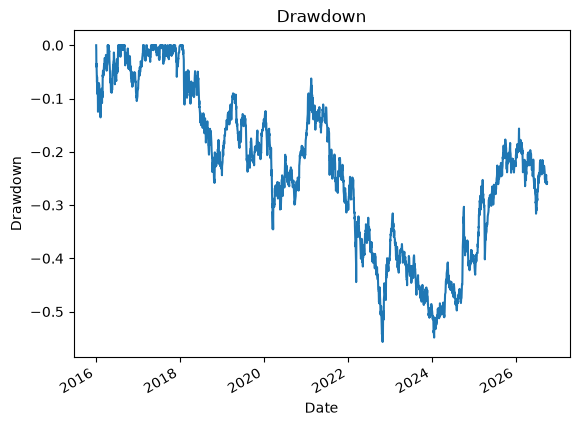
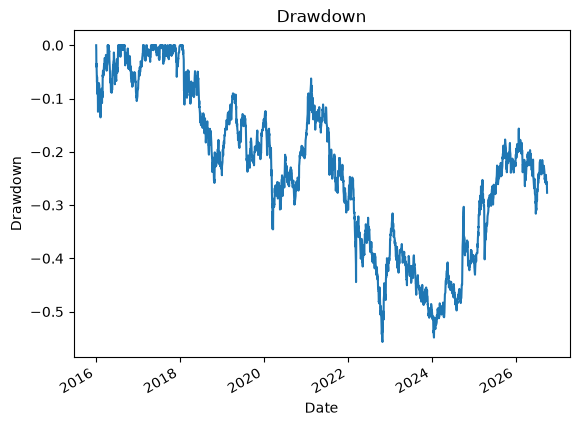
Daily automated notebook update: 2026-10-03

diff --git a/README.md b/README.md
@@ -33,12 +33,12 @@ df, returns
      2016-01-07    20333.339844
      2016-01-08    20453.710938
                        ...     
-     2026-09-24    24761.130859
      2026-09-25    24510.089844
      2026-09-28    24642.509766
      2026-09-29    24523.570312
      2026-09-30    24613.269531
-     Name: ^HSI, Length: 2643, dtype: float64,
+     2026-10-02    23972.289062
+     Name: ^HSI, Length: 2644, dtype: float64,
      Date
      2016-01-05   -0.006489
      2016-01-06   -0.009812
@@ -46,12 +46,12 @@ df, returns
      2016-01-08    0.005920
      2016-01-11   -0.027634
                      ...   
-     2026-09-24   -0.002939
      2026-09-25   -0.010139
      2026-09-28    0.005403
      2026-09-29   -0.004827
      2026-09-30    0.003658
-     Name: ^HSI, Length: 2642, dtype: float64)
+     2026-10-02   -0.026042
+     Name: ^HSI, Length: 2643, dtype: float64)
 
 
 
@@ -100,11 +100,11 @@ summary
   <tbody>
     <tr>
       <th>0</th>
-      <td>0.000149</td>
-      <td>0.013749</td>
+      <td>0.000139</td>
+      <td>0.013756</td>
       <td>-0.132233</td>
       <td>0.090818</td>
-      <td>2642</td>
+      <td>2643</td>
     </tr>
   </tbody>
 </table>
@@ -176,13 +176,13 @@ pd.DataFrame({
       <th>0</th>
       <td>Historical</td>
       <td>0.95</td>
-      <td>-0.020962</td>
+      <td>-0.021035</td>
     </tr>
     <tr>
       <th>1</th>
       <td>Historical</td>
       <td>0.99</td>
-      <td>-0.034019</td>
+      <td>-0.034017</td>
     </tr>
   </tbody>
 </table>
@@ -238,13 +238,13 @@ pd.DataFrame({
       <th>0</th>
       <td>Parametric (Normal)</td>
       <td>0.95</td>
-      <td>-0.022467</td>
+      <td>-0.022488</td>
     </tr>
     <tr>
       <th>1</th>
       <td>Parametric (Normal)</td>
       <td>0.99</td>
-      <td>-0.031837</td>
+      <td>-0.031863</td>
     </tr>
   </tbody>
 </table>
@@ -289,13 +289,13 @@ compare_var
   <tbody>
     <tr>
       <th>0</th>
-      <td>-0.020962</td>
-      <td>-0.022467</td>
+      <td>-0.021035</td>
+      <td>-0.022488</td>
     </tr>
     <tr>
       <th>1</th>
-      <td>-0.034019</td>
-      <td>-0.031837</td>
+      <td>-0.034017</td>
+      <td>-0.031863</td>
     </tr>
   </tbody>
 </table>
@@ -355,11 +355,11 @@ pd.DataFrame({
     <tr>
       <th>0</th>
       <td>Historical 95% (constant)</td>
-      <td>-0.020962</td>
-      <td>0.050341</td>
+      <td>-0.021035</td>
+      <td>0.050322</td>
       <td>0.05</td>
       <td>133</td>
-      <td>2642</td>
+      <td>2643</td>
     </tr>
   </tbody>
 </table>
@@ -417,11 +417,11 @@ pd.DataFrame({
     <tr>
       <th>0</th>
       <td>Historical 99% (constant)</td>
-      <td>-0.034019</td>
-      <td>0.01022</td>
+      <td>-0.034017</td>
+      <td>0.010216</td>
       <td>0.01</td>
       <td>27</td>
-      <td>2642</td>
+      <td>2643</td>
     </tr>
   </tbody>
 </table>
@@ -479,11 +479,11 @@ pd.DataFrame({
     <tr>
       <th>0</th>
       <td>Parametric 95% (constant)</td>
-      <td>-0.022467</td>
-      <td>0.03785</td>
+      <td>-0.022488</td>
+      <td>0.038214</td>
       <td>0.05</td>
-      <td>100</td>
-      <td>2642</td>
+      <td>101</td>
+      <td>2643</td>
     </tr>
   </tbody>
 </table>
@@ -541,11 +541,11 @@ pd.DataFrame({
     <tr>
       <th>0</th>
       <td>Parametric 99% (constant)</td>
-      <td>-0.031837</td>
-      <td>0.012491</td>
+      <td>-0.031863</td>
+      <td>0.012486</td>
       <td>0.01</td>
       <td>33</td>
-      <td>2642</td>
+      <td>2643</td>
     </tr>
   </tbody>
 </table>
@@ -603,7 +603,7 @@ tail_stats
     <tr>
       <th>0</th>
       <td>0.01</td>
-      <td>-0.034019</td>
+      <td>-0.034017</td>
       <td>-0.04744</td>
       <td>-0.132233</td>
       <td>27</td>
@@ -917,12 +917,12 @@ report
     <tr>
       <th>0</th>
       <td>Historical VaR 95%</td>
-      <td>-20961.996088</td>
+      <td>-21034.853326</td>
     </tr>
     <tr>
       <th>1</th>
       <td>Parametric VaR 95% (Assuming Normal)</td>
-      <td>-22466.775798</td>
+      <td>-22487.927197</td>
     </tr>
     <tr>
       <th>2</th>
